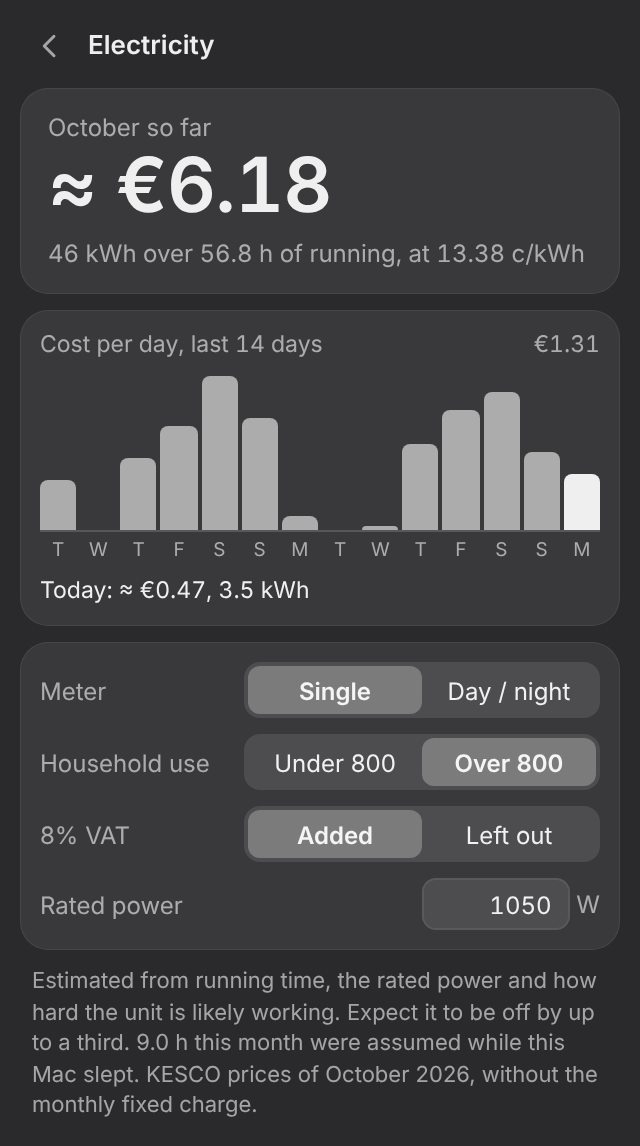
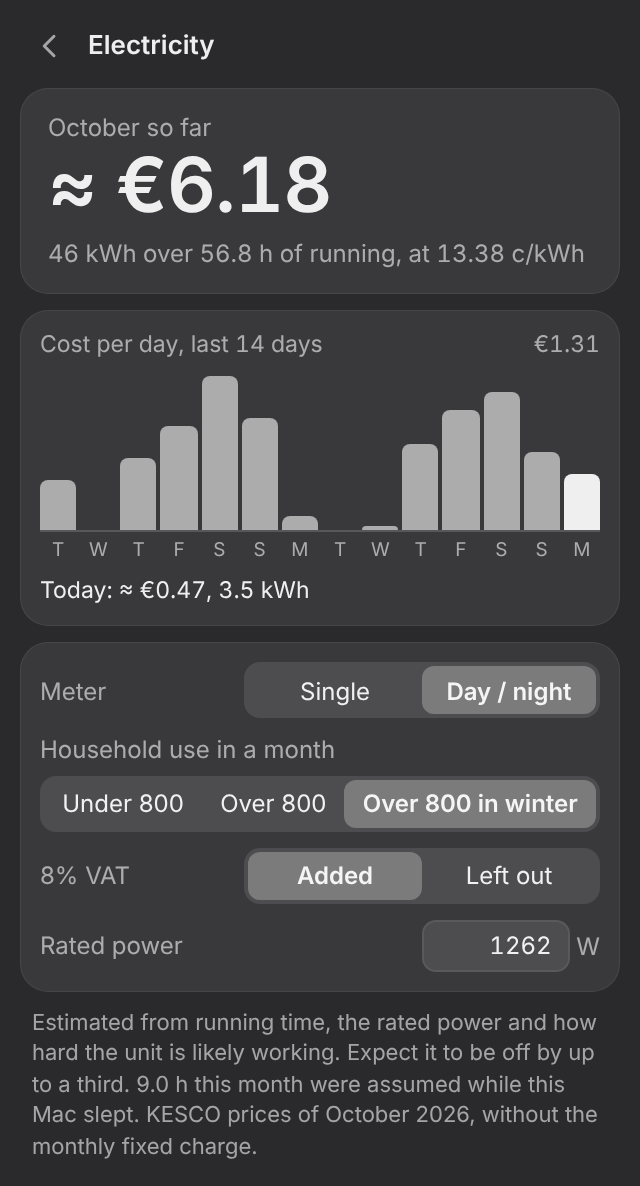
Price the 800 kWh block by season
Add an "Over 800 in winter" household setting: October to May is priced
at the higher block, June to September at the lower one, and each day is
priced at the rate for its own date. Default to a day/night meter.

diff --git a/test/usage.test.ts b/test/usage.test.ts
@@ -3,7 +3,7 @@ import { mkdtempSync } from "node:fs";
 import { tmpdir } from "node:os";
 import { join } from "node:path";
 import { test } from "node:test";
-import { centsPerKwh, cost, isHighTariff } from "../src/core/tariff";
+import { blockOn, centsPerKwh, cost, isHighTariff } from "../src/core/tariff";
 import type { AcState, Electricity } from "../src/core/types";
 import { estimateLoad, UsageLog } from "../src/core/usage";
 
@@ -138,4 +138,38 @@ test("the log survives a restart", () => {
   for (let m = 0; m <= 30; m++) log.record(state(), t0 + m * 60_000);
   log.save(true);
   near(new UsageLog(log.path).summary(single, new Date(t0 + 3_600_000)).today.kwh, 0.5);
+});
+
+test("a winter-only household is priced at the high block from October to May", () => {
+  const winter: Electricity = { meter: "dual", block: "winter", vat: false, ratedWatts: 1000 };
+  assert.equal(blockOn(winter, new Date(2026, 9, 1)), 2, "1 October");
+  assert.equal(blockOn(winter, new Date(2027, 4, 31)), 2, "31 May");
+  assert.equal(blockOn(winter, new Date(2026, 5, 1)), 1, "1 June");
+  assert.equal(blockOn(winter, new Date(2026, 8, 30)), 1, "30 September");
+  assert.deepEqual(centsPerKwh(winter, new Date(2026, 0, 15)), { high: 15.43, low: 7.28 });
+  assert.deepEqual(centsPerKwh(winter, new Date(2026, 6, 15)), { high: 9.05, low: 3.88 });
+});
+
+test("each day is priced at its own season's rate, so the 14-day chart is right across 1 October", () => {
+  const log = fresh();
+  const winter: Electricity = { meter: "dual", block: "winter", vat: false, ratedWatts: 1000 };
+  // One hour flat out at midday on 30 September, and one on 1 October.
+  for (const day of [at(2026, 9, 30, 12, 0), at(2026, 10, 1, 12, 0)]) {
+    for (let m = 0; m < 60; m++) log.record(state(), day + m * 60_000);
+    log.record(state({ power: false }), day + 60 * 60_000);
+  }
+  const sum = log.summary(winter, new Date(at(2026, 10, 1, 18, 0)));
+  const byDate = Object.fromEntries(sum.days.map((d) => [d.date, d.cost]));
+  near(byDate["2026-09-30"]!, 0.0905);
+  near(byDate["2026-10-01"]!, 0.1543);
+  near(sum.month.cost, 0.1543);
+  assert.deepEqual(sum.cents, { high: 15.43, low: 7.28 });
+});
+
+test("the September 2026 bill adds up at the published rates plus VAT", () => {
+  // Read off the KESCO app: about 450 kWh by day and 145 at night, billed at a little over 50 euros.
+  const sept: Electricity = { meter: "dual", block: "winter", vat: true, ratedWatts: null };
+  const energy = cost(450, 145, sept, new Date(2026, 8, 15));
+  const withFixed = energy + 2.32 * 1.08;
+  assert.ok(withFixed > 50 && withFixed < 55, `September comes to ${withFixed.toFixed(2)}`);
 });

diff --git a/src/core/usage.ts b/src/core/usage.ts
@@ -161,14 +161,17 @@ export class UsageLog {
   /** Today, this month and the last two weeks, priced with the given settings. */
   summary(e: Electricity, now = new Date()): CostSummary {
     const kw = (e.ratedWatts ?? 0) / 1000;
-    const price = (d: Day) => {
+    // Each day is priced at the rate in force on that day, which matters when the block changes with the season.
+    const price = (key: string, d: Day) => {
+      const [y, m, day] = key.split("-").map(Number);
       const high = d.high + d.loadHigh * kw;
       const low = d.low + d.loadLow * kw;
-      return { kwh: high + low, cost: cost(high, low, e), minutes: d.minutes };
+      return { kwh: high + low, cost: cost(high, low, e, new Date(y!, m! - 1, day!)), minutes: d.minutes };
     };
-    const add = (a: { kwh: number; cost: number; minutes: number }, d: Day | undefined) => {
+    const add = (a: { kwh: number; cost: number; minutes: number }, key: string) => {
+      const d = this.data.days[key];
       if (!d) return a;
-      const p = price(d);
+      const p = price(key, d);
       return { kwh: a.kwh + p.kwh, cost: a.cost + p.cost, minutes: a.minutes + p.minutes };
     };
     const zero = { kwh: 0, cost: 0, minutes: 0 };
@@ -179,14 +182,14 @@ export class UsageLog {
     let assumed = 0;
     for (const [key, d] of Object.entries(this.data.days)) {
       if (!key.startsWith(monthPrefix)) continue;
-      month = add(month, d);
+      month = add(month, key);
       assumed += d.assumed;
     }
 
     const days = [];
     for (let i = 13; i >= 0; i--) {
       const date = dayKey(new Date(now.getFullYear(), now.getMonth(), now.getDate() - i));
-      const p = add(zero, this.data.days[date]);
+      const p = add(zero, date);
       days.push({ date, kwh: p.kwh, cost: p.cost });
     }
 
@@ -194,11 +197,11 @@ export class UsageLog {
     return {
       metered,
       needsRating: !metered && !e.ratedWatts,
-      today: add(zero, this.data.days[today]),
+      today: add(zero, today),
       month,
       assumedMinutes: assumed,
       days,
-      cents: centsPerKwh(e),
+      cents: centsPerKwh(e, now),
       settings: e,
     };
   }

diff --git a/src/core/tariff.ts b/src/core/tariff.ts
@@ -33,16 +33,28 @@ export function isHighTariff(at: Date): boolean {
   return winter ? hour >= 7 && hour < 22 : hour >= 8 && hour < 23;
 }
 
-/** Cents per kWh, VAT included if asked for, in the high and low periods. */
-export function centsPerKwh(e: Electricity): { high: number; low: number } {
+/** Months (1 to 12) in which a "winter" household passes 800 kWh: October to May. */
+export function isHeatingSeason(at: Date): boolean {
+  const month = at.getMonth() + 1;
+  return month >= 10 || month <= 5;
+}
+
+/** Which price block the unit's use falls in on a given day. */
+export function blockOn(e: Electricity, at: Date): 1 | 2 {
+  if (e.block === "winter") return isHeatingSeason(at) ? 2 : 1;
+  return e.block;
+}
+
+/** Cents per kWh on a given day, VAT included if asked for, in the high and low periods. */
+export function centsPerKwh(e: Electricity, at: Date = new Date()): { high: number; low: number } {
   const rates = RATES[e.meter];
-  const i = e.block === 2 ? 1 : 0;
+  const i = blockOn(e, at) === 2 ? 1 : 0;
   const vat = e.vat ? 1 + VAT : 1;
   return { high: rates.high[i]! * vat, low: rates.low[i]! * vat };
 }
 
-/** What an amount of energy costs, in euros. */
-export function cost(kwhHigh: number, kwhLow: number, e: Electricity): number {
-  const c = centsPerKwh(e);
+/** What an amount of energy used on a given day costs, in euros. */
+export function cost(kwhHigh: number, kwhLow: number, e: Electricity, at: Date = new Date()): number {
+  const c = centsPerKwh(e, at);
   return (kwhHigh * c.high + kwhLow * c.low) / 100;
 }

diff --git a/src/core/store.ts b/src/core/store.ts
@@ -4,10 +4,11 @@ import { dirname, join } from "node:path";
 import type { Config, DeviceRecord, Electricity } from "./types";
 
 /**
- * Defaults follow the owner's own KESCO contract: a single-tariff meter in a
- * household that usually passes 800 kWh a month. Both are settings in the app.
+ * Defaults follow the owner's own KESCO contract: a day/night meter in a home
+ * heated by electricity, which passes 800 kWh a month in the cold half of the
+ * year only. All of it can be changed in the app.
  */
-const ELECTRICITY: Electricity = { meter: "single", block: 2, vat: true, ratedWatts: null };
+const ELECTRICITY: Electricity = { meter: "dual", block: "winter", vat: true, ratedWatts: null };
 
 const EMPTY: Config = {
   devices: [],
@@ -26,7 +27,7 @@ function readElectricity(raw: unknown): Electricity {
   const watts = Number(r.ratedWatts);
   return {
     meter: r.meter === "dual" ? "dual" : r.meter === "single" ? "single" : ELECTRICITY.meter,
-    block: r.block === 1 ? 1 : r.block === 2 ? 2 : ELECTRICITY.block,
+    block: r.block === 1 || r.block === 2 || r.block === "winter" ? r.block : ELECTRICITY.block,
     vat: typeof r.vat === "boolean" ? r.vat : ELECTRICITY.vat,
     // Anything outside what a household unit can draw is a typo.
     ratedWatts: Number.isFinite(watts) && watts >= 100 && watts <= 10_000 ? Math.round(watts) : null,

diff --git a/src/renderer/renderer.ts b/src/renderer/renderer.ts
@@ -409,7 +409,18 @@ function renderBill(c: CostSummary): void {
   const s = c.settings;
   const save = (changes: Partial<Electricity>) => void ac.costSettings(changes).then(accept);
   segments($("set-meter"), ["single", "dual"], s.meter, (m) => [m === "single" ? "Single" : "Day / night"], (meter) => save({ meter }));
-  segments($("set-block"), ["1", "2"], String(s.block), (b) => [b === "1" ? "Under 800" : "Over 800", b === "1" ? "Under 800 kWh a month" : "Over 800 kWh a month"], (b) => save({ block: b === "2" ? 2 : 1 }));
+  const BLOCKS = {
+    "1": ["Under 800", "Under 800 kWh every month"],
+    "2": ["Over 800", "Over 800 kWh every month"],
+    winter: ["Over 800 in winter", "Over 800 kWh from October to May, under it from June to September"],
+  } as const;
+  segments(
+    $("set-block"),
+    ["1", "2", "winter"] as const,
+    String(s.block) as keyof typeof BLOCKS,
+    (b) => [BLOCKS[b][0], BLOCKS[b][1]],
+    (b) => save({ block: b === "winter" ? "winter" : b === "2" ? 2 : 1 }),
+  );
   segments($("set-vat"), ["on", "off"], s.vat ? "on" : "off", (v) => [v === "on" ? "Added" : "Left out"], (v) => save({ vat: v === "on" }));
 
   $("set-watts-row").hidden = c.metered;

diff --git a/src/renderer/index.html b/src/renderer/index.html
@@ -114,7 +114,7 @@
 
       <section class="tile settings">
         <div class="set"><span id="set-meter-label">Meter</span><div id="set-meter" class="seg" role="radiogroup" aria-labelledby="set-meter-label"></div></div>
-        <div class="set"><span id="set-block-label">Household use</span><div id="set-block" class="seg" role="radiogroup" aria-labelledby="set-block-label"></div></div>
+        <div class="set stacked"><span id="set-block-label">Household use in a month</span><div id="set-block" class="seg" role="radiogroup" aria-labelledby="set-block-label"></div></div>
         <div class="set"><span id="set-vat-label">8% VAT</span><div id="set-vat" class="seg" role="radiogroup" aria-labelledby="set-vat-label"></div></div>
         <label class="set" id="set-watts-row"><span>Rated power</span>
           <span class="watts"><input id="set-watts" inputmode="numeric" placeholder="e.g. 1050" maxlength="5" autocomplete="off" aria-describedby="bill-how" /> W</span>

diff --git a/src/core/types.ts b/src/core/types.ts
@@ -75,8 +75,12 @@ export interface DeviceRecord {
 export interface Electricity {
   /** KESCO household meter: one price all day, or cheaper at night. */
   meter: "single" | "dual";
-  /** 1: the household stays under 800 kWh a month. 2: it goes over, so the AC's use is billed at the higher rate. */
-  block: 1 | 2;
+  /**
+   * 1: the household stays under 800 kWh a month. 2: it goes over, so the AC's
+   * use is billed at the higher rate. "winter": it goes over from October to
+   * May and stays under from June to September, as a home heated by electricity does.
+   */
+  block: 1 | 2 | "winter";
   /** Add 8% VAT to the published prices. */
   vat: boolean;
   /** The unit's rated input power in watts, from its nameplate. Only needed when the unit does not meter itself. */

diff --git a/src/renderer/style.css b/src/renderer/style.css
@@ -797,6 +797,22 @@ body[data-power="off"] .extras-tile {
   width: 178px;
 }
 
+/* A choice with three long labels gets a row of its own. */
+.set.stacked {
+  flex-direction: column;
+  align-items: stretch;
+  gap: 5px;
+}
+
+.set.stacked .seg {
+  width: auto;
+}
+
+.set.stacked .seg button {
+  flex: 1 1 auto;
+  padding: 0 6px;
+}
+
 .watts {
   color: var(--text-2);
 }

diff --git a/README.md b/README.md
@@ -90,7 +90,7 @@ test/            end-to-end tests against the pretend unit
 
 ```bash
 npm install
-npm test            # 47 tests against the pretend unit and a stubbed cloud
+npm test            # 50 tests against the pretend unit and a stubbed cloud
 npm start           # run the menu bar app from source
 npm run package     # build out/MideaBar-darwin-arm64/MideaBar.app
 ```
@@ -122,11 +122,14 @@ node dist/cli.cjs off
   October 2026: single-tariff meter 7.12 c/kWh (12.39 c above 800 kWh a month),
   day/night meter 9.05 / 3.88 c (15.43 / 7.28 c above 800). The regulator revises them
   about once a year; edit that file when it does.
-- The 800 kWh block is for the whole household, which the app cannot see. You tell it
-  whether you usually pass 800; if you do, the AC is priced at the higher rate, because
-  it is the use that pushes you over.
-- 8% VAT is added by default. KESCO's page does not say whether its prices include it;
-  compare with a bill and switch it off if the totals come out high.
+- The 800 kWh block is for the whole household, which the app cannot see, so you tell
+  it: under 800 every month, over 800 every month, or over 800 in winter only (October
+  to May), which fits a home heated by electricity. When the household is over, the AC is
+  priced at the higher rate, because it is the use that pushes you over. Each day is
+  priced at the rate for its own date.
+- 8% VAT is added by default. KESCO's page does not say whether its prices include it,
+  but a real bill does: about 450 kWh by day and 145 at night came to a little over 50
+  euros, which is the published rates plus the fixed charge plus 8%.
 - If the unit meters itself, energy comes from its own counter and is exact. The app
   asks every unit once, because some do not advertise it.
 - If it does not, energy is estimated: running time × rated power × a load factor
